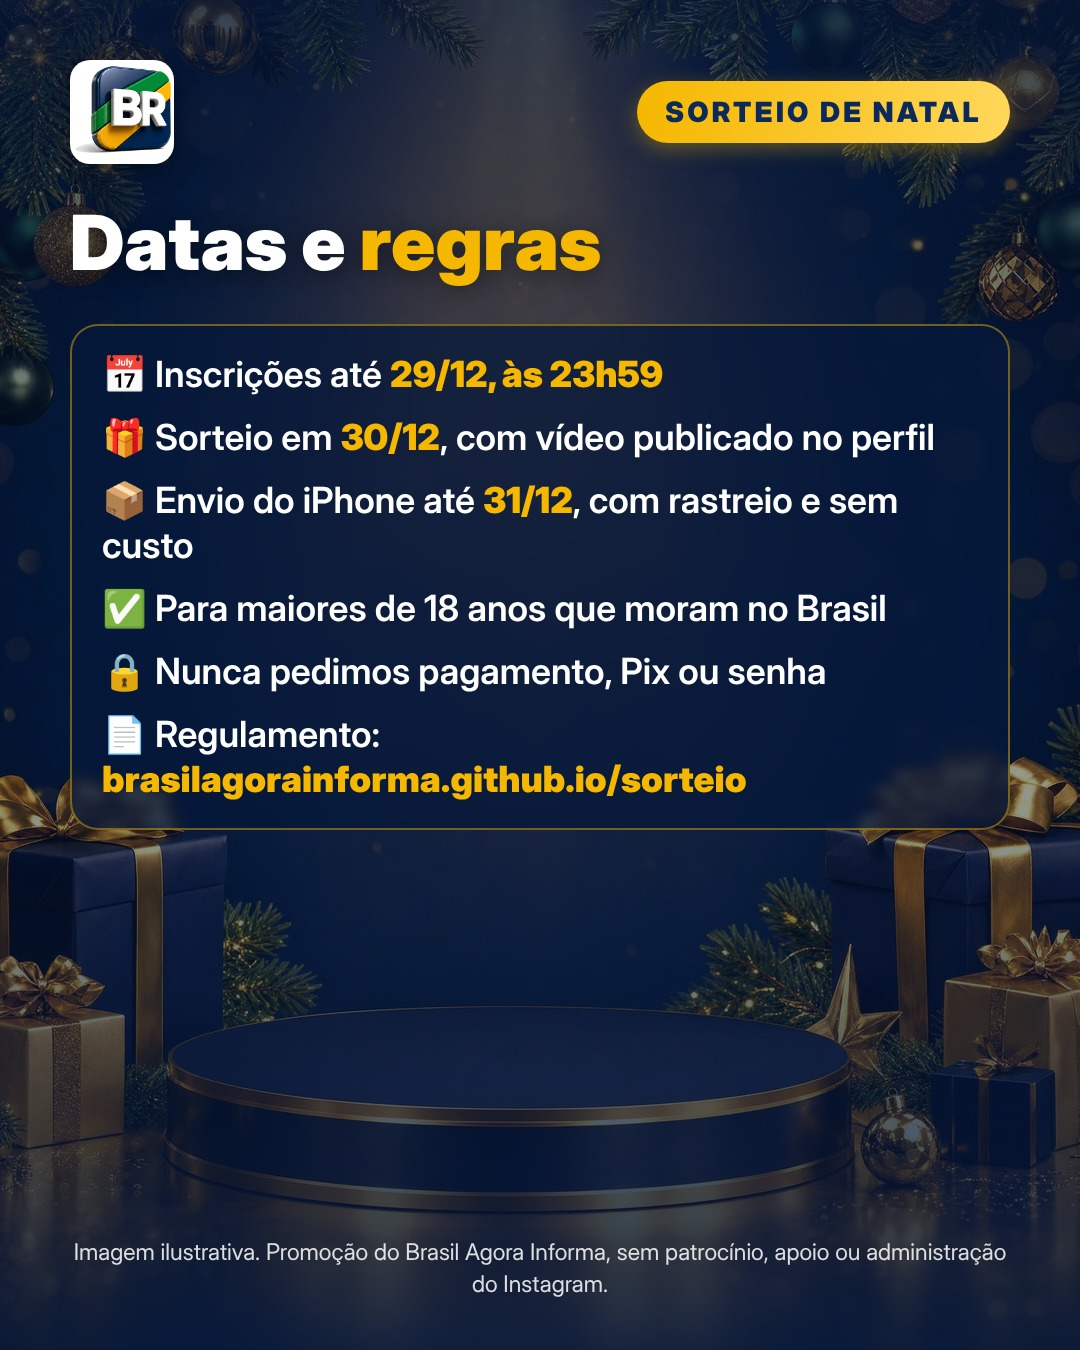
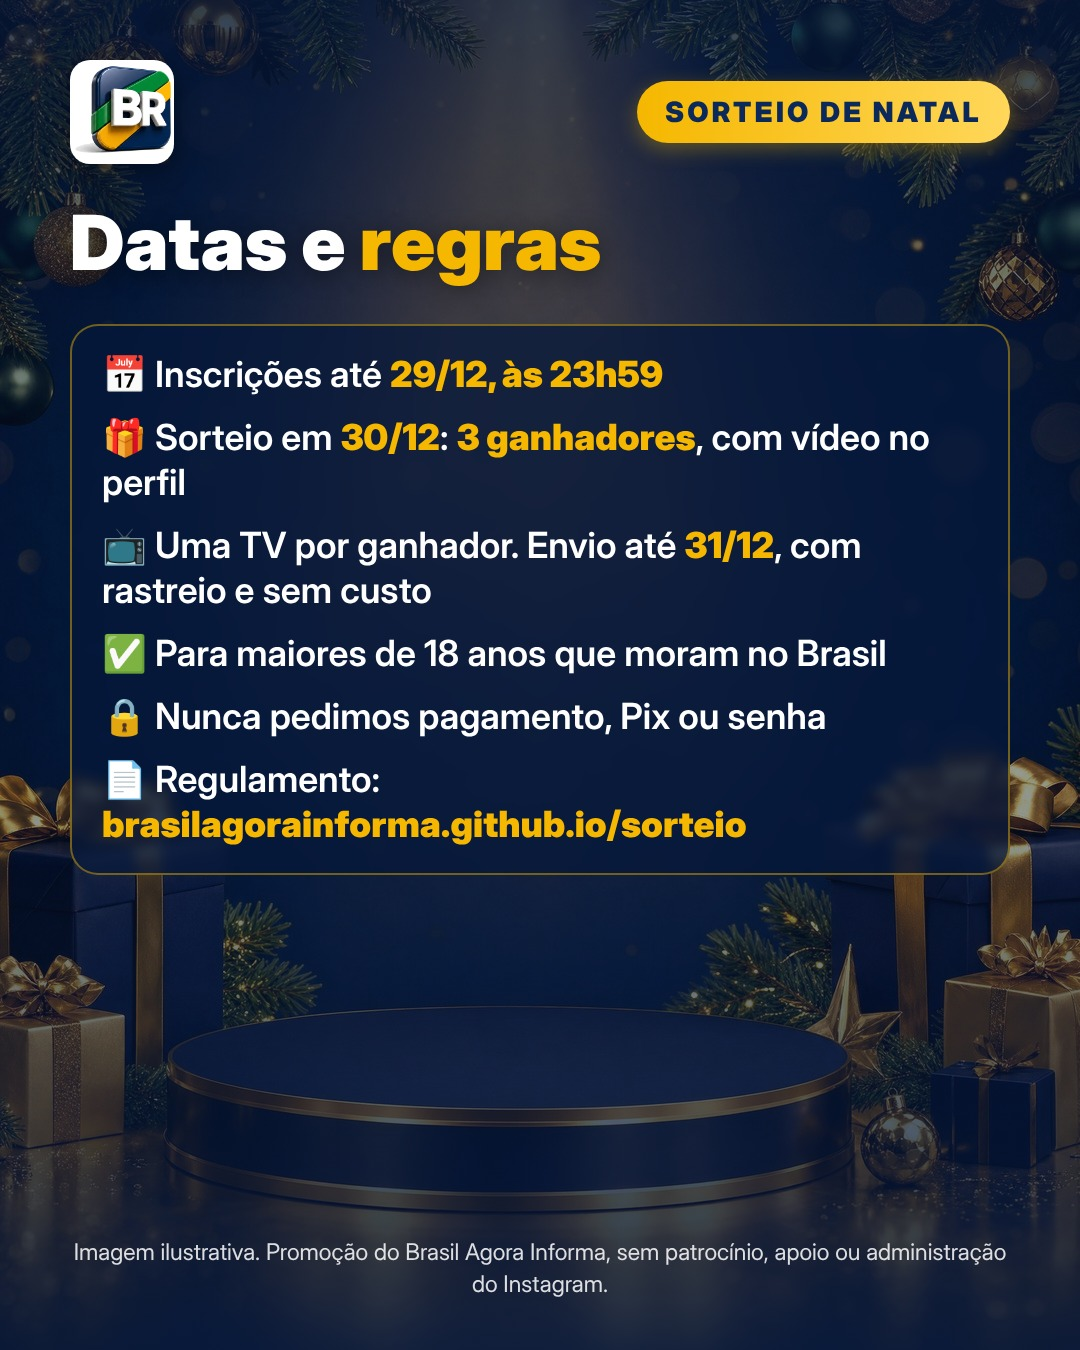
Sorteio: prêmio passa a ser 3 TVs de 32 polegadas para 3 ganhadores (v49)
Claude-Session: https://claude.ai/code/session_0182ehLtReBftEm9wBhAEYUi

Changed region(s): [[0.0611, 0.3111, 0.8861, 0.6533], [0.7639, 0.5911, 0.9472, 0.6533]]

diff --git a/sorteio.html b/sorteio.html
@@ -16,8 +16,8 @@
     <meta name="mobile-web-app-capable" content="yes" />
     <meta name="apple-mobile-web-app-title" content="Brasil Agora Informa" />
     <meta name="apple-mobile-web-app-status-bar-style" content="black" />
-    <link rel="stylesheet" href="assets/style.css?v=48" />
-    <title>Sorteio do iPhone 17 | Brasil Agora Informa</title>
+    <link rel="stylesheet" href="assets/style.css?v=49" />
+    <title>Sorteio de 3 TVs de 32 polegadas | Brasil Agora Informa</title>
   </head>
   <body data-pagina="sorteio">
     <div id="topo"></div>
@@ -36,20 +36,20 @@
             border-radius: 12px;
           "
         />
-        <h1>Sorteio do iPhone 17: regulamento</h1>
-        <img src="midia/sorteio/brasil-feed.jpg" alt="Sorteio do iPhone 17" style="width:100%;max-width:520px;height:auto;display:block;margin:0 auto 18px;border-radius:12px" />
+        <h1>Sorteio de 3 TVs de 32 polegadas: regulamento</h1>
+        <img src="midia/sorteio/brasil-feed.jpg?v=2" alt="Sorteio de 3 TVs de 32 polegadas" style="width:100%;max-width:520px;height:auto;display:block;margin:0 auto 18px;border-radius:12px" />
         <ol>
           <li><b>Quem organiza:</b> o perfil Brasil Agora Informa (@brasilagorainforma). Contato só pela mensagem direta do perfil.</li>
           <li><b>Período:</b> de 28 de novembro de 2026 até 29 de dezembro de 2026, às 23h59 (horário de Brasília).</li>
           <li><b>Quem pode participar:</b> pessoas com 18 anos ou mais, que morem no Brasil e tenham perfil no Instagram. Participar é grátis: não é preciso comprar nada.</li>
           <li><b>Como participar:</b> (1) seguir o perfil @brasilagorainforma; (2) comentar no post oficial do sorteio (fixado no perfil) marcando 5 perfis reais de amigos; (3) os 5 perfis marcados também precisam seguir @brasilagorainforma até o dia do sorteio; (4) compartilhar o post oficial do sorteio nos seus stories, marcando @brasilagorainforma, ao menos uma vez durante o período. Como fazer: no post, toque no ícone de avião de papel, escolha "Adicionar ao story" e marque @brasilagorainforma antes de publicar. A participação é feita só pelo Instagram.</li>
           <li><b>Pode participar várias vezes:</b> a mesma pessoa pode comentar quantas vezes quiser. Cada comentário vale uma participação, desde que marque 5 perfis diferentes dos marcados nos outros comentários dela, e que esses perfis também sigam @brasilagorainforma. Não valem perfis falsos, perfis de marcas, perfis criados só para o sorteio nem a mesma pessoa marcada mais de uma vez.</li>
-          <li><b>Prêmio:</b> 1 (um) iPhone 17, modelo de entrada, novo, lacrado e com nota fiscal. O prêmio não pode ser trocado por dinheiro.</li>
-          <li><b>Sorteio:</b> em 30 de dezembro de 2026. A lista numerada dos comentários válidos é montada ao fim do prazo, e o número vencedor é sorteado no site público random.org. Todo o sorteio e a conferência são gravados em vídeo e publicados no perfil no mesmo dia.</li>
-          <li><b>Conferência:</b> o autor do comentário sorteado precisa cumprir todas as regras no momento do sorteio (seguir o perfil, comentário válido, os 5 marcados nele seguindo e o compartilhamento nos stories). Como o story some em 24 horas e perfis fechados não aparecem para nós, o compartilhamento é conferido só no sorteado: pela menção recebida no perfil ou, se ela não aparecer, por um print do story enviado na mensagem direta. Se faltar alguma, um novo número é sorteado, também na gravação.</li>
-          <li><b>Aviso ao vencedor:</b> pela mensagem direta do @brasilagorainforma. O vencedor tem 24 horas para responder; sem resposta, um novo número é sorteado. Nunca pedimos senha, código, pagamento, Pix ou dados bancários. Desconfie de perfis parecidos com o nosso.</li>
-          <li><b>Entrega:</b> o iPhone é enviado até 31 de dezembro de 2026 por transportadora ou Correios, com código de rastreio e sem custo para o vencedor. O prazo de chegada depende do endereço.</li>
-          <li><b>Dados pessoais:</b> nome, documento e endereço do vencedor são usados só para conferir a idade e entregar o prêmio, conforme a Lei Geral de Proteção de Dados. O nome do perfil do vencedor é divulgado no resultado.</li>
+          <li><b>Prêmios:</b> 3 (três) televisores de 32 polegadas, novos, lacrados e com nota fiscal, um para cada ganhador. Serão 3 ganhadores diferentes: cada pessoa pode ganhar só uma TV, mesmo que tenha vários comentários sorteados. Os prêmios não podem ser trocados por dinheiro.</li>
+          <li><b>Sorteio:</b> em 30 de dezembro de 2026. A lista numerada dos comentários válidos é montada ao fim do prazo, e os 3 números vencedores são sorteados, um de cada vez, no site público random.org. Se sair um comentário de quem já ganhou, um novo número é sorteado. Todo o sorteio e a conferência são gravados em vídeo e publicados no perfil no mesmo dia.</li>
+          <li><b>Conferência:</b> cada autor de comentário sorteado precisa cumprir todas as regras no momento do sorteio (seguir o perfil, comentário válido, os 5 marcados nele seguindo e o compartilhamento nos stories). Como o story some em 24 horas e perfis fechados não aparecem para nós, o compartilhamento é conferido só no sorteado: pela menção recebida no perfil ou, se ela não aparecer, por um print do story enviado na mensagem direta. Se faltar alguma, um novo número é sorteado, também na gravação.</li>
+          <li><b>Aviso aos ganhadores:</b> pela mensagem direta do @brasilagorainforma. Cada ganhador tem 24 horas para responder; sem resposta, um novo número é sorteado. Nunca pedimos senha, código, pagamento, Pix ou dados bancários. Desconfie de perfis parecidos com o nosso.</li>
+          <li><b>Entrega:</b> cada TV é enviada até 31 de dezembro de 2026 por transportadora ou Correios, com código de rastreio e sem custo para o ganhador. O prazo de chegada depende do endereço.</li>
+          <li><b>Dados pessoais:</b> nome, documento e endereço dos ganhadores são usados só para conferir a idade e entregar o prêmio, conforme a Lei Geral de Proteção de Dados. O nome do perfil de cada ganhador é divulgado no resultado.</li>
           <li><b>Instagram:</b> esta promoção não é patrocinada, apoiada nem administrada pelo Instagram, nem tem ligação com ele. Cada participante isenta o Instagram de qualquer responsabilidade.</li>
           <li><b>Mudanças:</b> se o post do sorteio for removido pela plataforma, as inscrições se encerram nesse dia, com aviso nos stories do perfil, e o sorteio acontece na data prevista entre as participações válidas registradas até ali.</li>
           <li>Ao participar, a pessoa declara que leu e aceita este regulamento.</li>
@@ -57,6 +57,6 @@
       </article>
     </main>
     <div id="rodape"></div>
-    <script src="assets/app.js?v=48"></script>
+    <script src="assets/app.js?v=49"></script>
   </body>
 </html>

diff --git a/index.html b/index.html
@@ -1,9 +1,9 @@
 <!doctype html><html lang="pt-BR"><head><meta charset="utf-8"><meta name="viewport" content="width=device-width,initial-scale=1"><meta name="theme-color" content="#0B2A5B">
 <link rel="preconnect" href="https://fonts.googleapis.com"><link href="https://fonts.googleapis.com/css2?family=Archivo:wght@700;800;900&family=Inter:wght@400;600;700;800&display=swap" rel="stylesheet">
-<link rel="icon" href="icones/favicon-32.png" sizes="32x32"><link rel="manifest" href="manifest.webmanifest"><link rel="apple-touch-icon" href="icones/apple-touch-icon.png"><meta name="apple-mobile-web-app-capable" content="yes"><meta name="mobile-web-app-capable" content="yes"><meta name="apple-mobile-web-app-title" content="Brasil Agora Informa"><meta name="apple-mobile-web-app-status-bar-style" content="black"><link rel="stylesheet" href="assets/style.css?v=48">
+<link rel="icon" href="icones/favicon-32.png" sizes="32x32"><link rel="manifest" href="manifest.webmanifest"><link rel="apple-touch-icon" href="icones/apple-touch-icon.png"><meta name="apple-mobile-web-app-capable" content="yes"><meta name="mobile-web-app-capable" content="yes"><meta name="apple-mobile-web-app-title" content="Brasil Agora Informa"><meta name="apple-mobile-web-app-status-bar-style" content="black"><link rel="stylesheet" href="assets/style.css?v=49">
 <title>Brasil Agora Informa | Notícias do Brasil e do mundo</title>
 <meta name="description" content="O que acontece no Brasil e no mundo agora: política, economia, serviço, saúde, esporte e mundo. Notícia confirmada, sempre com a fonte.">
 <meta property="og:title" content="Brasil Agora Informa"><meta property="og:description" content="As notícias do Brasil e do mundo, agora, com fonte."><meta property="og:image" content="capa-facebook.jpg">
 </head><body data-pagina="capa"><div id="topo"></div>
-<main class="wrap"><a href="sorteio" style="display:flex;align-items:center;gap:14px;margin:14px 0 6px;padding:12px 16px;border-radius:14px;background:linear-gradient(90deg,#0B2A5B,#173f7e);border:1px solid #F5B700;color:#fff;text-decoration:none;font-weight:700"><span style="font-size:28px">🎄</span><span style="flex:1">Sorteio de Natal: vamos sortear um iPhone 17. <span style="color:#F5B700">Veja o regulamento →</span></span></a><div id="conteudo"><p class="vazio">Carregando notícias…</p></div></main>
-<div id="rodape"></div><script src="assets/app.js?v=48"></script></body></html>
+<main class="wrap"><a href="sorteio" style="display:flex;align-items:center;gap:14px;margin:14px 0 6px;padding:12px 16px;border-radius:14px;background:linear-gradient(90deg,#0B2A5B,#173f7e);border:1px solid #F5B700;color:#fff;text-decoration:none;font-weight:700"><span style="font-size:28px">🎄</span><span style="flex:1">Sorteio de Natal: vamos sortear 3 TVs de 32 polegadas, para 3 ganhadores. <span style="color:#F5B700">Veja o regulamento →</span></span></a><div id="conteudo"><p class="vazio">Carregando notícias…</p></div></main>
+<div id="rodape"></div><script src="assets/app.js?v=49"></script></body></html>

diff --git a/agenda.html b/agenda.html
@@ -1,8 +1,8 @@
 <!doctype html><html lang="pt-BR"><head><meta charset="utf-8"><meta name="viewport" content="width=device-width,initial-scale=1"><meta name="theme-color" content="#0B2A5B">
 <link rel="preconnect" href="https://fonts.googleapis.com"><link href="https://fonts.googleapis.com/css2?family=Archivo:wght@700;800;900&family=Inter:wght@400;600;700;800&display=swap" rel="stylesheet">
-<link rel="icon" href="icones/favicon-32.png" sizes="32x32"><link rel="manifest" href="manifest.webmanifest"><link rel="apple-touch-icon" href="icones/apple-touch-icon.png"><meta name="apple-mobile-web-app-capable" content="yes"><meta name="mobile-web-app-capable" content="yes"><meta name="apple-mobile-web-app-title" content="Brasil Agora Informa"><meta name="apple-mobile-web-app-status-bar-style" content="black"><link rel="stylesheet" href="assets/style.css?v=48">
+<link rel="icon" href="icones/favicon-32.png" sizes="32x32"><link rel="manifest" href="manifest.webmanifest"><link rel="apple-touch-icon" href="icones/apple-touch-icon.png"><meta name="apple-mobile-web-app-capable" content="yes"><meta name="mobile-web-app-capable" content="yes"><meta name="apple-mobile-web-app-title" content="Brasil Agora Informa"><meta name="apple-mobile-web-app-status-bar-style" content="black"><link rel="stylesheet" href="assets/style.css?v=49">
 <title>Agenda | Brasil Agora Informa</title>
 <meta name="description" content="Agenda de datas, eventos e prazos importantes do Brasil.">
 </head><body data-pagina="agenda"><div id="topo"></div>
 <main class="wrap" id="conteudo"><p class="vazio">Carregando…</p></main>
-<div id="rodape"></div><script src="assets/app.js?v=48"></script></body></html>
+<div id="rodape"></div><script src="assets/app.js?v=49"></script></body></html>

diff --git a/noticia.html b/noticia.html
@@ -1,7 +1,7 @@
 <!doctype html><html lang="pt-BR"><head><meta charset="utf-8"><meta name="viewport" content="width=device-width,initial-scale=1"><meta name="theme-color" content="#0B2A5B">
 <link rel="preconnect" href="https://fonts.googleapis.com"><link href="https://fonts.googleapis.com/css2?family=Archivo:wght@700;800;900&family=Inter:wght@400;600;700;800&display=swap" rel="stylesheet">
-<link rel="icon" href="icones/favicon-32.png" sizes="32x32"><link rel="manifest" href="manifest.webmanifest"><link rel="apple-touch-icon" href="icones/apple-touch-icon.png"><meta name="apple-mobile-web-app-capable" content="yes"><meta name="mobile-web-app-capable" content="yes"><meta name="apple-mobile-web-app-title" content="Brasil Agora Informa"><meta name="apple-mobile-web-app-status-bar-style" content="black"><link rel="stylesheet" href="assets/style.css?v=48">
+<link rel="icon" href="icones/favicon-32.png" sizes="32x32"><link rel="manifest" href="manifest.webmanifest"><link rel="apple-touch-icon" href="icones/apple-touch-icon.png"><meta name="apple-mobile-web-app-capable" content="yes"><meta name="mobile-web-app-capable" content="yes"><meta name="apple-mobile-web-app-title" content="Brasil Agora Informa"><meta name="apple-mobile-web-app-status-bar-style" content="black"><link rel="stylesheet" href="assets/style.css?v=49">
 <title>Brasil Agora Informa</title>
 </head><body data-pagina="materia"><div id="topo"></div>
 <main class="wrap" id="conteudo"><p class="vazio">Carregando…</p></main>
-<div id="rodape"></div><script src="assets/app.js?v=48"></script></body></html>
+<div id="rodape"></div><script src="assets/app.js?v=49"></script></body></html>

diff --git a/sobre.html b/sobre.html
@@ -16,7 +16,7 @@
     <meta name="mobile-web-app-capable" content="yes" />
     <meta name="apple-mobile-web-app-title" content="Brasil Agora Informa" />
     <meta name="apple-mobile-web-app-status-bar-style" content="black" />
-    <link rel="stylesheet" href="assets/style.css?v=48" />
+    <link rel="stylesheet" href="assets/style.css?v=49" />
     <title>Quem somos | Brasil Agora Informa</title>
   </head>
   <body data-pagina="sobre">
@@ -77,6 +77,6 @@
       </article>
     </main>
     <div id="rodape"></div>
-    <script src="assets/app.js?v=48"></script>
+    <script src="assets/app.js?v=49"></script>
   </body>
 </html>

diff --git a/assets/app.js b/assets/app.js
@@ -1348,7 +1348,7 @@ setTimeout(() => {
 }, 750);
 
 // número da versão no rodapé (para saber se o celular está com a versão nova)
-const VERSAO_SITE = "48";
+const VERSAO_SITE = "49";
 setTimeout(() => {
   const r = document.querySelector(".rodape .wrap");
   if (r && !document.querySelector(".versao")) {

diff --git a/sw.js b/sw.js
@@ -6,7 +6,7 @@
 try {
   importScripts("assets/onesignal/OneSignalSDK.sw.js");
 } catch (e) {}
-const VERSAO = "bai-v50";
+const VERSAO = "bai-v51";
 const BASICOS = [
   "./",
   "index.html",
